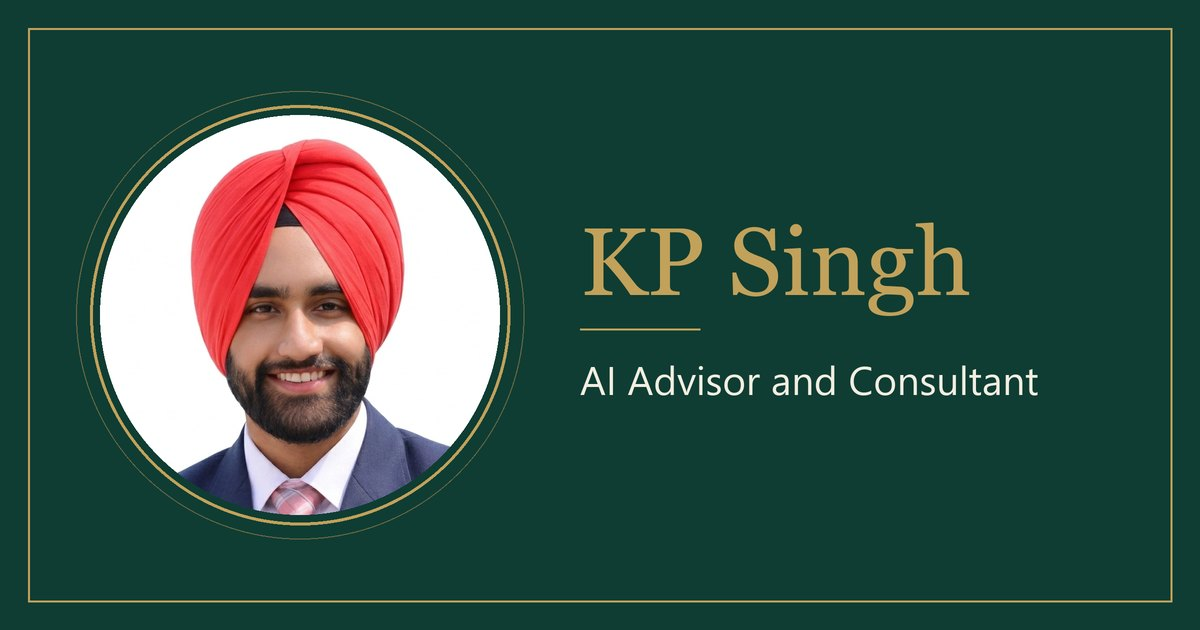
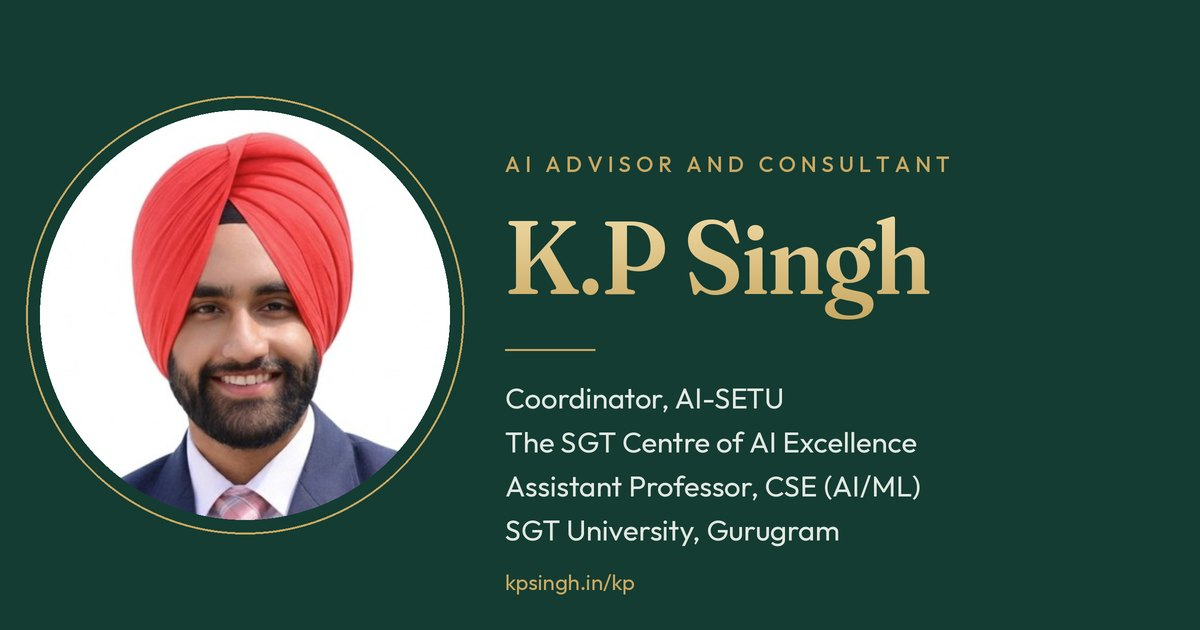
kp: K.P Singh link preview + new og image

diff --git a/kp/index.html b/kp/index.html
@@ -2,19 +2,21 @@
 <html lang="en">
 <head>
 <meta charset="utf-8">
-<title>KP Singh</title>
+<title>K.P Singh</title>
 <meta name="description" content="AI Advisor and Consultant · Coordinator, AI-SETU, The SGT Centre of AI Excellence, SGT University">
 <meta property="og:type" content="profile">
-<meta property="og:title" content="KP Singh">
+<meta property="og:title" content="K.P Singh">
 <meta property="og:description" content="AI Advisor and Consultant · Coordinator, AI-SETU, The SGT Centre of AI Excellence">
 <meta property="og:url" content="https://kpsingh.in/kp/">
-<meta property="og:image" content="https://kpsingh.in/kp/og-card.jpg">
-<meta property="og:image:secure_url" content="https://kpsingh.in/kp/og-card.jpg">
+<meta property="og:image" content="https://kpsingh.in/kp/og.jpg?v=2">
+<meta property="og:image:secure_url" content="https://kpsingh.in/kp/og.jpg?v=2">
 <meta property="og:image:type" content="image/jpeg">
-<meta property="og:image:alt" content="KP Singh, AI Advisor and Consultant">
+<meta property="og:image:alt" content="K.P Singh, AI Advisor and Consultant">
 <meta property="og:image:width" content="1200">
 <meta property="og:image:height" content="630">
 <meta name="twitter:card" content="summary_large_image">
+<meta name="twitter:title" content="K.P Singh">
+<meta name="twitter:image" content="https://kpsingh.in/kp/og.jpg?v=2">
 <meta name="viewport" content="width=device-width, initial-scale=1, viewport-fit=cover">
 <meta name="theme-color" content="#0f3d33">
 <link rel="preconnect" href="https://fonts.googleapis.com">
